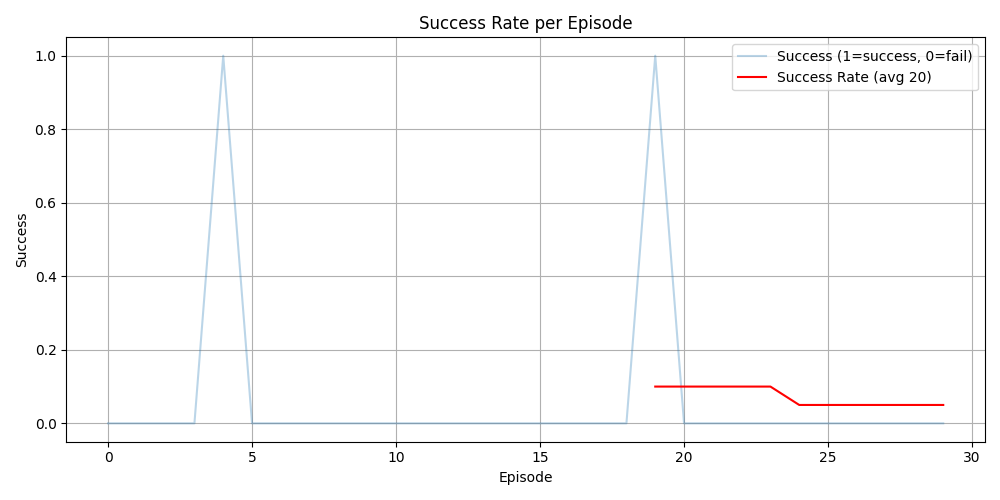
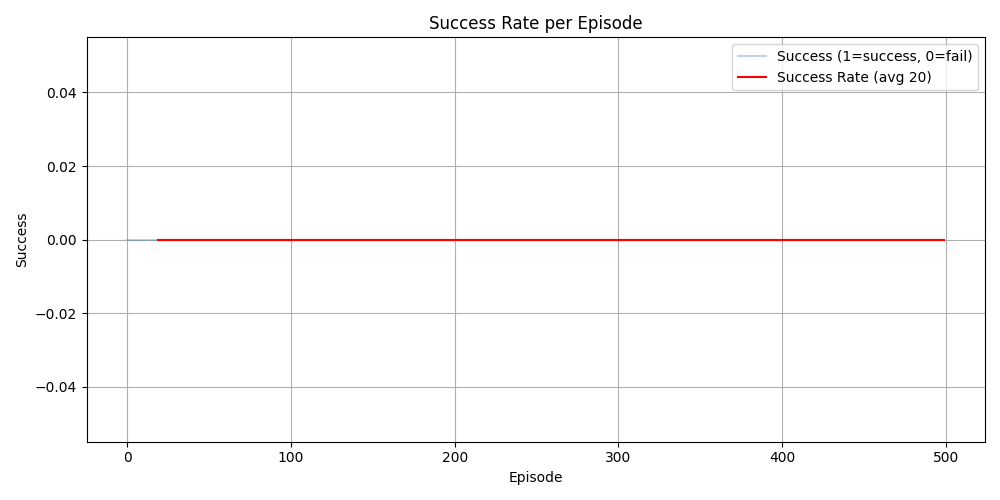
Update training parameters and add visualization features

diff --git a/training/ddpg_her.py b/training/ddpg_her.py
@@ -8,7 +8,7 @@ import matplotlib.pyplot as plt
 
 if __name__ == "__main__":
 
-    n_games = 30
+    n_games = 500
     opt_steps = 64
     best_score = 0
     score_history = []
@@ -20,7 +20,7 @@ if __name__ == "__main__":
 
 
     num_success = 0
-    threshold = 0.05  # hoặc giá trị phù hợp với môi trường của bạn (2.5cm)
+    threshold = 0.01  # hoặc giá trị phù hợp với môi trường của bạn (2.5cm)
 
 
 
